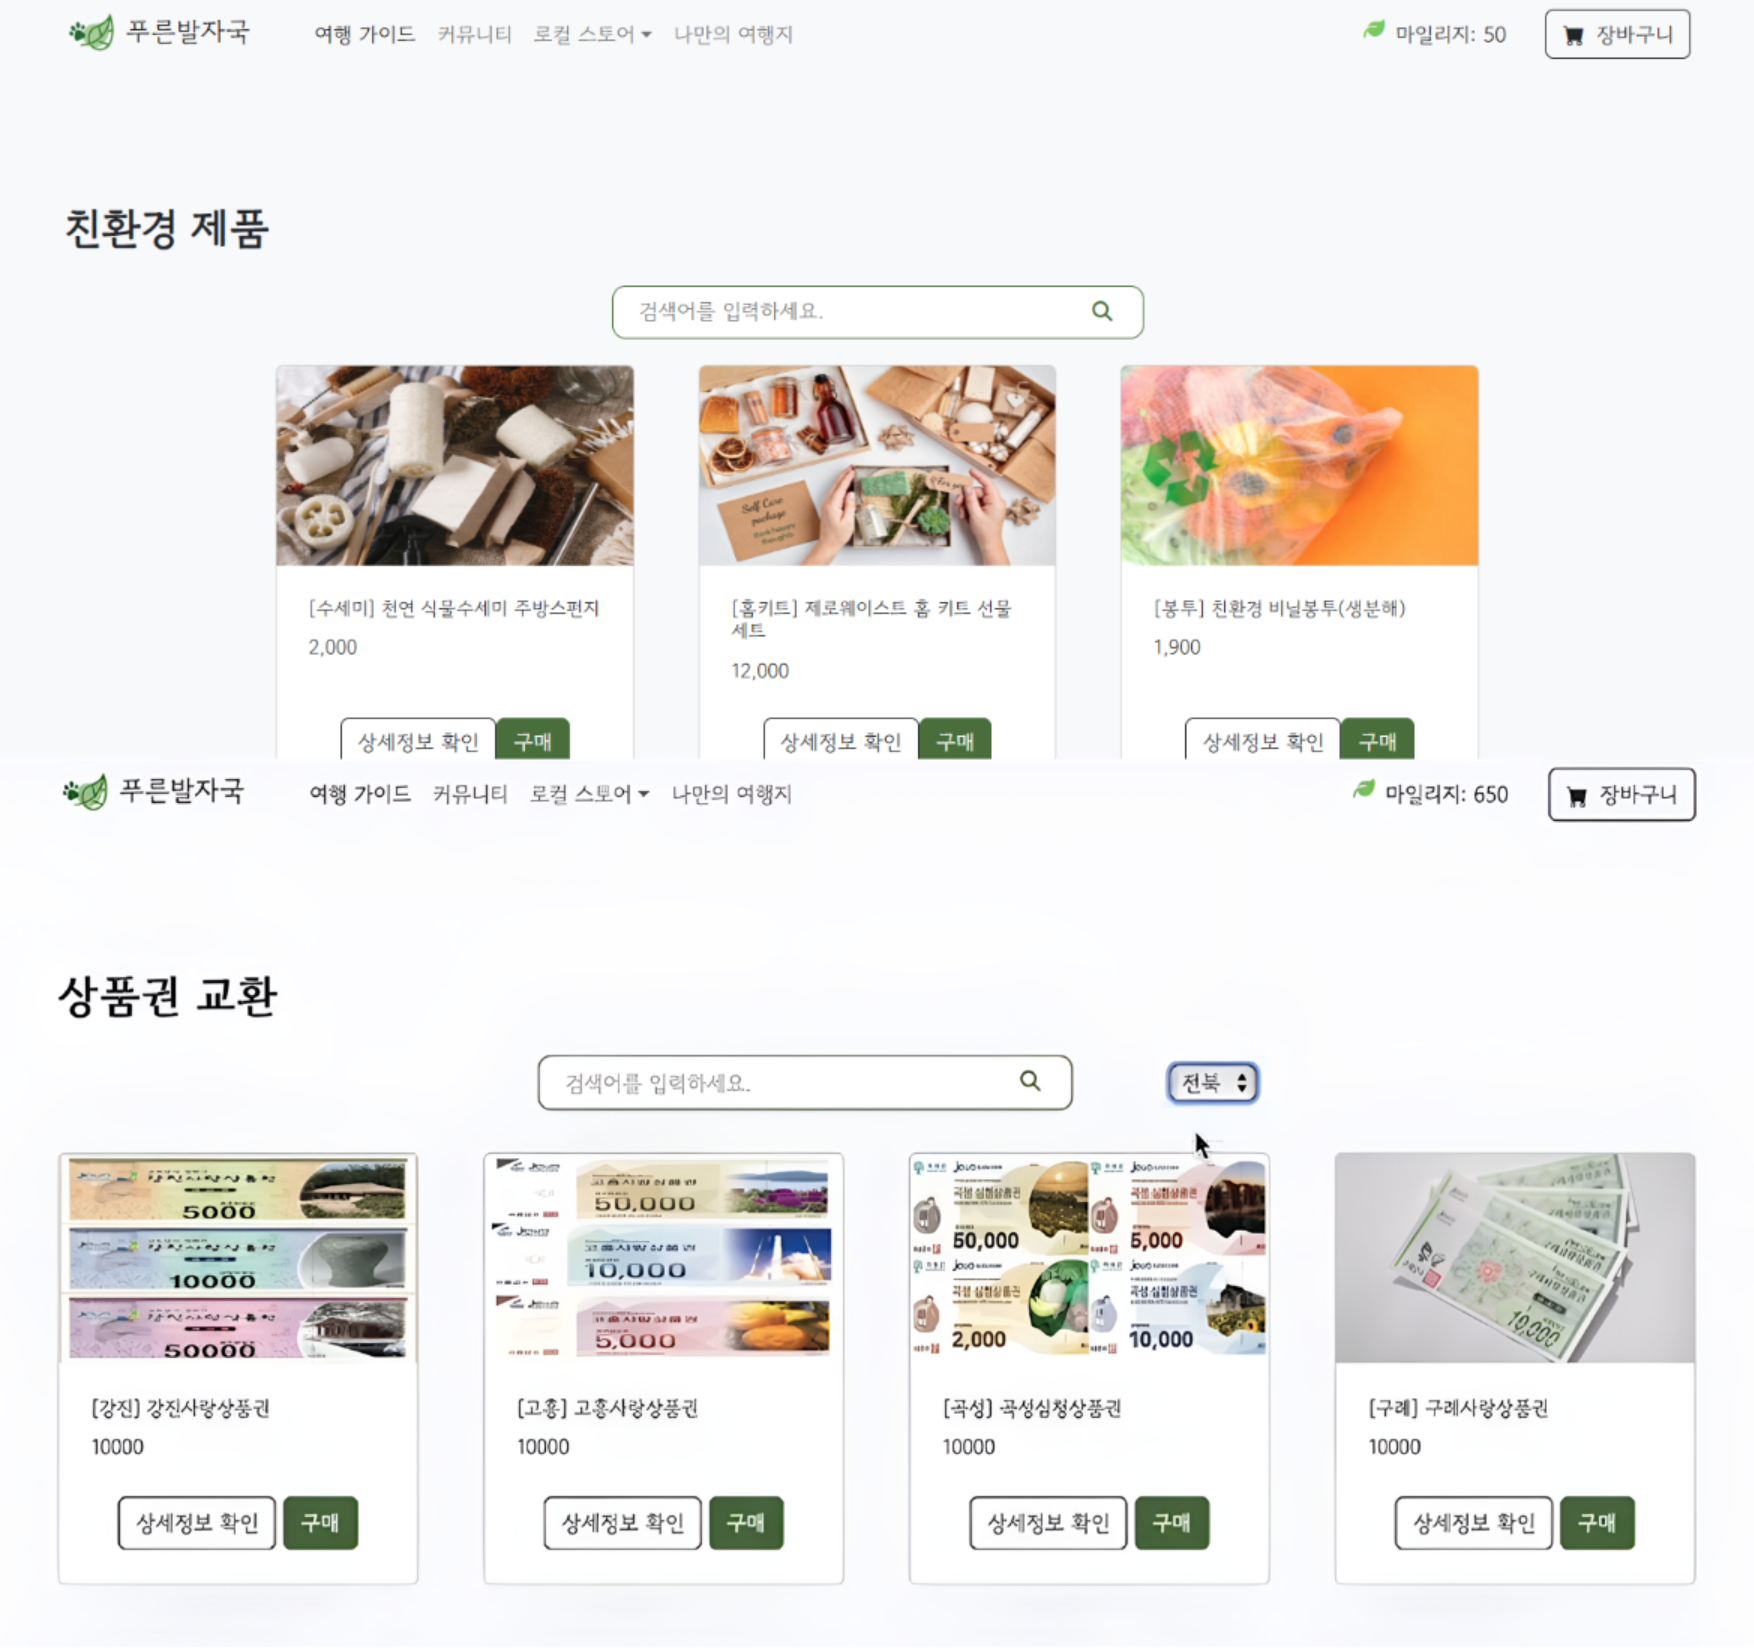
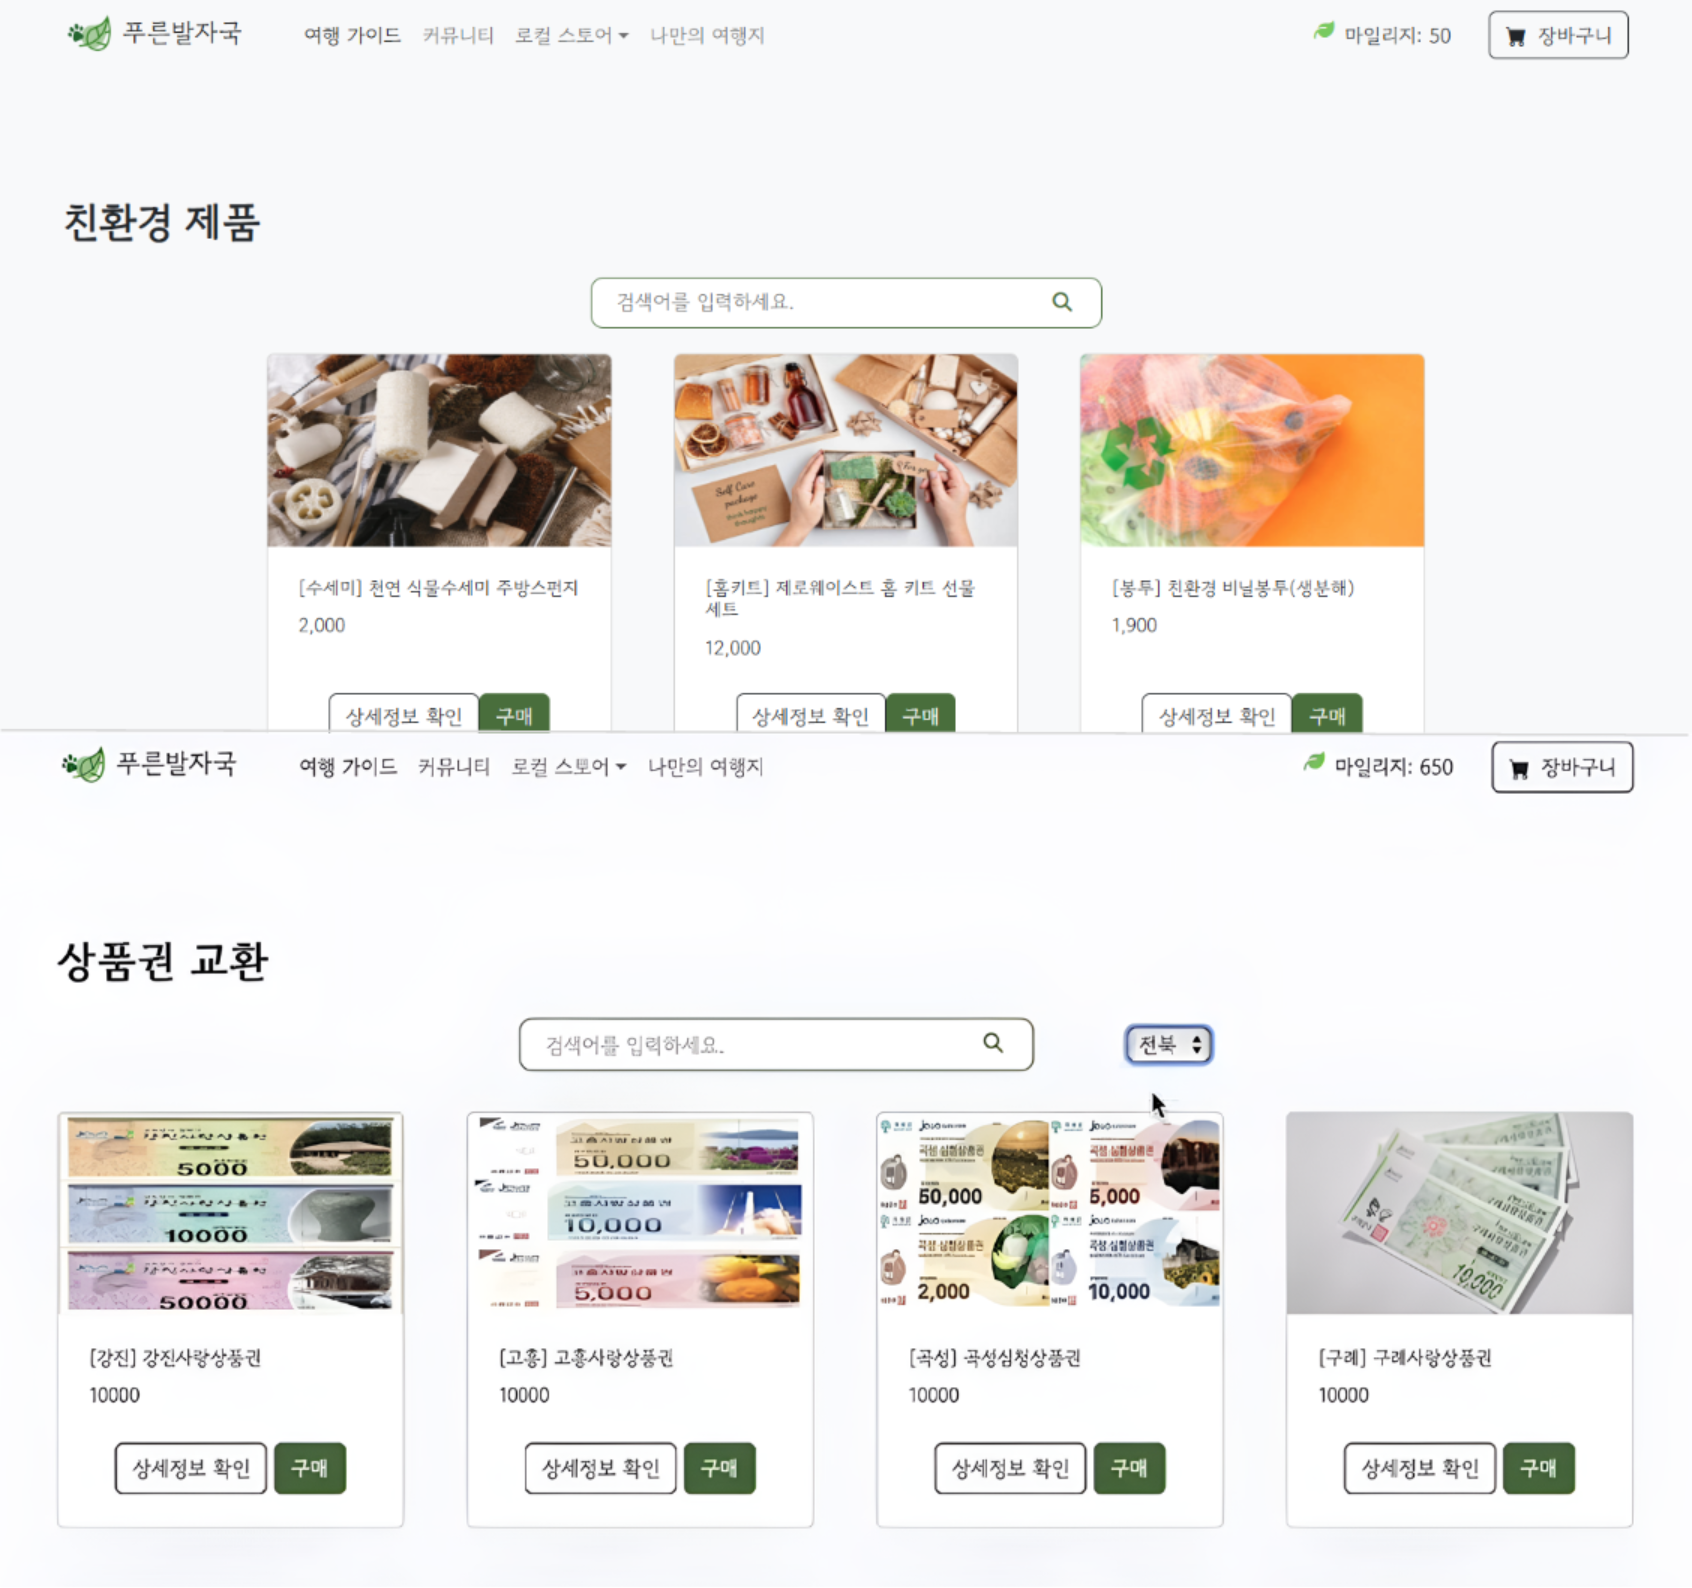
Update README.md

diff --git a/README.md b/README.md
@@ -12,22 +12,23 @@
 
 ## 실행 화면
 
-### 메인 화면
+### 1) 메인 화면
 
 ![메인 화면](assets/images/UI/mainsite.jpg)
 
-### 여행지 탐색
+### 2) 여행지 탐색
 
 ![여행지 탐색](assets/images/UI/tripmain.png)
 
+### 3) 여행지 조회
 
 ![여행지 리스트 및 상세 정보](assets/images/UI/triplist.png)
 
-### 방문 인증 및 마일리지 적립
+### 4) 방문 인증 및 마일리지 적립
 
-![마일리지 적립](assets/images/UI/mileage.jpg)
+![마일리지 적립](assets/images/UI/mileage.png)
 
-### 로컬 스토어
+### 5) 로컬 스토어
 
 ![로컬푸드](assets/images/UI/localstore_localfood.png)
 ![로컬 스토어](assets/images/UI/localstore_etc.png)
